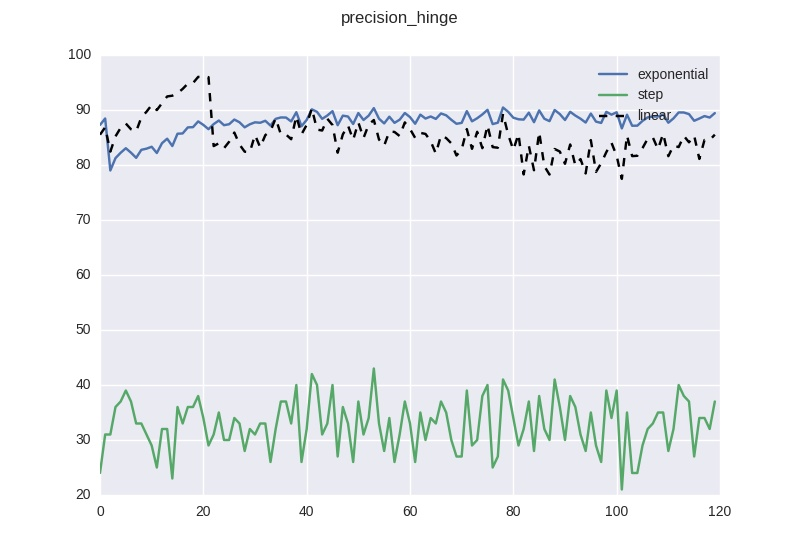
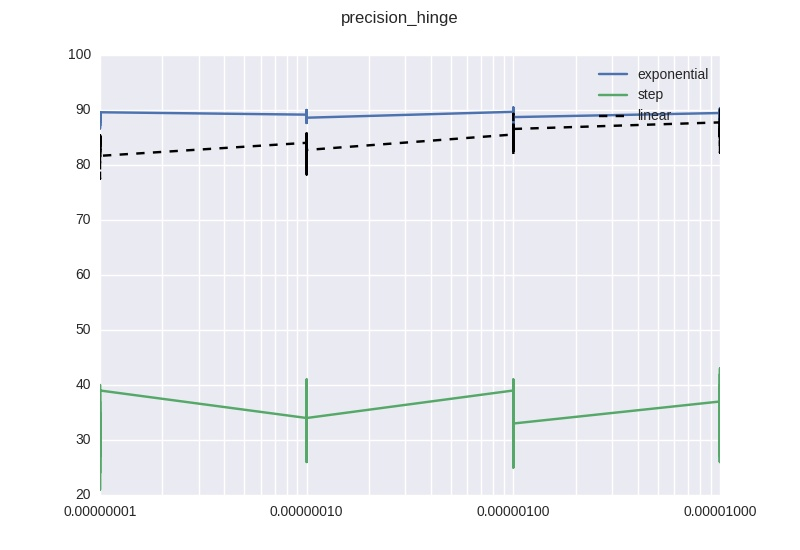
cleaned up the graphs

diff --git a/src/cost/cost.py b/src/cost/cost.py
@@ -6,8 +6,10 @@ from numpy.random import randn
 from cost_function import cost_function
 import seaborn as sns 
 import matplotlib.pyplot as P
+from pylab import *
 import matplotlib.patches as mpatches
-
+from matplotlib.ticker import OldScalarFormatter
+from matplotlib.ticker import ScalarFormatter 
 
 def check(x):
 	if x == 0:
@@ -132,16 +134,24 @@ def cost_function_graphs():
 				#costs = [cost/100 for cost in costs]
 				alpha_values = np.array(alpha_values)
 				print len(alpha_values), costs[:,0].size
-				
+				np.set_printoptions(suppress=True)
 				P.figure()
 				f, axf = P.subplots(squeeze=False)
 				P.suptitle(check(metric) + "_" + LT(loss_num))
-				P.plot(costs[:,0], label='exponential')
-				P.plot(costs[:,1],label='step')
-				P.plot(costs[:,2],label='linear',linestyle='--',color='black')
+				P.plot(alpha_values,costs[:,0], label='exponential')
+				P.plot(alpha_values,costs[:,1],label='step')
+				P.plot(alpha_values,costs[:,2],label='linear',linestyle='--',color='black')
+				#P.xticks(range(120), alpha_values[0:10], size='small')
+				#gca().xaxis.set_major_formatter(OldScalarFormatter())
+				#ax = gca() 
+				xscale('log') 
+				ax = gca().xaxis 
+				ax.set_major_formatter(ScalarFormatter()) 
 				P.legend()
 				#P.xlim([0,100])
 				#P.ylim([0, .4])
+				ax = gca().xaxis 
+
 				outp = "pics/" + str(check(metric)) + '__' + LT(loss_num) + ".jpg"
 				P.savefig(outp)
 				P.close(outp)
